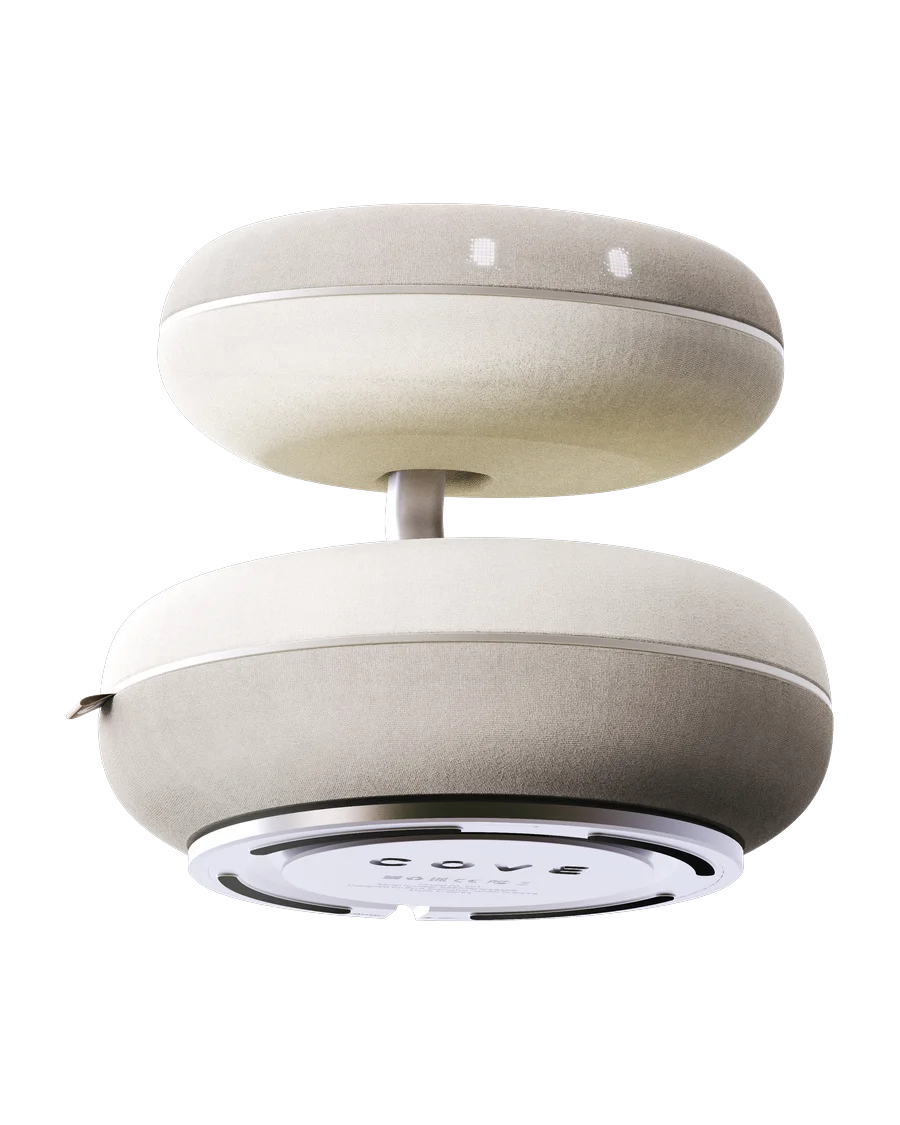
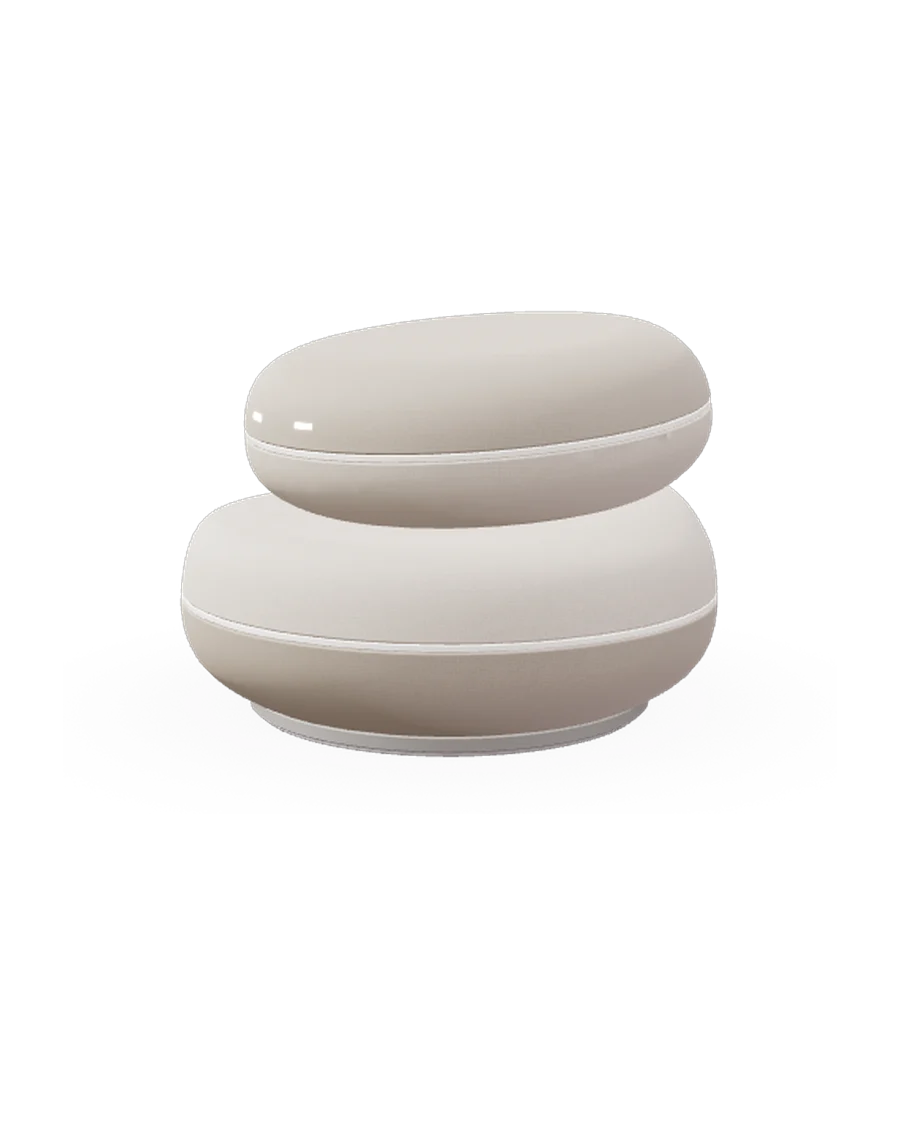
움직임 줄이기 설정과 무관하게 효과 적용, 패브릭 직조 촘촘하게, About 하단 3D 자세 이미지, 모바일 책상 숨김
Claude-Session: https://claude.ai/code/session_01B5YuiHJt2asrBi5ncFQC1Q

diff --git a/js/intro.js b/js/intro.js
@@ -12,7 +12,7 @@
   const peach = $('.intro__peach'), blobA = $('.intro__blob--a'), blobB = $('.intro__blob--b');
   const dots = $('.intro__dots');
   const word = $('.intro__bigword'), render = $('.intro__render');
-  const reduced = window.matchMedia('(prefers-reduced-motion: reduce)').matches;
+  const reduced = false;   // 사용자 요청: PC의 '움직임 줄이기' 설정과 상관없이 모든 효과를 보여준다
   // 큰 COVE 글자는 한 글자씩 따로 움직이고, 도착하는 순간 퍼지는 빛을 둔다
   // Cove.ai 로고의 COVE 글자 모양(assets/cove-logo.svg)을 글자마다 따로 그려 움직임
   const GLYPHS = [{"vb": "215.5 98.3 112.0 100.4", "d": "M 269.85 102.81 C 282.44 101.30 300.40 105.25 310.00 113.82 C 321.82 124.37 310.16 139.64 298.66 134.08 C 293.47 131.57 291.30 128.24 284.39 126.68 C 245.03 117.79 246.80 178.67 287.98 167.90 C 294.46 166.21 295.74 162.93 300.15 160.65 C 313.13 153.92 324.47 170.67 311.50 181.67 C 296.22 194.63 268.34 195.67 251.83 184.53 C 218.48 162.03 230.45 107.53 269.85 102.81 "}, {"vb": "332.3 98.5 97.2 97.0", "d": "M 402.76 147.18 C 402.76 135.14 392.98 125.38 380.91 125.38 C 368.84 125.38 359.06 135.14 359.06 147.18 C 359.06 159.23 368.84 168.99 380.91 168.99 C 392.98 168.99 402.76 159.23 402.76 147.18 M 426.5 147 C 426.5 172.11 406.09 192.47 380.91 192.47 C 355.74 192.47 335.33 172.11 335.33 147 C 335.33 121.88 355.74 101.52 380.91 101.52 C 406.09 101.52 426.5 121.88 426.5 147 "}, {"vb": "438.8 102.2 88.9 93.5", "d": "M 469.84 182.76 C 471.66 186.77 474.92 189.95 478.98 191.65 C 478.98 191.65 477.97 191.23 478.98 191.65 C 481.59 192.75 484.53 192.75 487.13 191.65 L 487.13 191.65 C 491.19 189.95 493.71 187.75 496.28 182.76 C 500.86 173.96 510.45 152.66 510.45 152.66 C 510.45 152.66 517.91 135.36 523.53 122.58 C 523.54 122.56 523.55 122.54 523.56 122.51 C 523.57 122.49 523.58 122.46 523.59 122.44 L 523.60 122.41 L 523.60 122.41 C 524.41 120.48 524.72 118.29 524.37 116.00 C 523.60 110.95 519.55 106.87 514.50 106.09 C 509.01 105.25 504.10 108.17 501.92 112.66 L 501.91 112.65 L 501.78 112.95 C 501.71 113.11 501.64 113.27 501.57 113.43 L 484.49 153.17 C 483.95 154.42 482.17 154.42 481.62 153.17 L 464.75 113.92 C 464.69 113.75 464.62 113.59 464.55 113.43 L 464.42 113.14 L 464.41 113.14 C 462.48 109.17 458.42 106.43 453.71 106.43 C 447.14 106.43 441.81 111.76 441.81 118.33 C 441.81 119.95 442.14 121.49 442.72 122.89 L 442.73 122.92 C 442.75 122.98 442.78 123.02 442.80 123.07 C 447.50 133.45 456.91 154.22 456.91 154.22 C 456.91 154.22 465.53 173.25 469.84 182.76 "}, {"vb": "533.4 99.3 88.3 95.4", "d": "M 612.25 170.75 C 618.32 177.13 615.11 188.77 606.73 190.47 C 600.67 191.70 573.40 191.35 566.60 190.56 C 550.21 188.65 539.59 172.14 544.23 156.46 C 545.25 152.99 547.69 150.32 548.92 146.99 C 536.43 130.69 545.84 105.84 566.60 103.42 C 574.89 102.46 597.21 102.34 605.42 103.33 C 618.55 104.91 618.72 124.90 605.42 126.49 C 594.62 127.78 581.37 125.48 570.28 126.49 C 566.19 127.25 565.31 133.87 569.53 134.66 C 580.16 136.41 607.54 129.09 610.08 144.18 C 613.79 166.15 582.41 156.32 570.28 158.58 C 565.73 159.42 565.19 166.51 571.05 167.47 C 581.03 169.09 594.94 166.38 605.41 167.51 C 607.83 167.77 610.58 169.00 612.25 170.75 "}];

diff --git a/js/sim.js b/js/sim.js
@@ -218,7 +218,9 @@ float vn(vec3 x){ vec3 i = floor(x), f = fract(x); f = f * f * (3.0 - 2.0 * f);
     sh.lineTo(-hw + r, hd); sh.quadraticCurveTo(-hw, hd, -hw, hd - r); sh.lineTo(-hw, -hd + r); sh.quadraticCurveTo(-hw, -hd, -hw + r, -hd);
     const g = new THREE.ExtrudeGeometry(sh, { depth: T, bevelEnabled: true, bevelSize: T * 0.25, bevelThickness: T * 0.25, bevelSegments: 3 });
     const desk = new THREE.Mesh(g, new THREE.MeshStandardMaterial({ color: '#e6d8c4', roughness: 0.78, metalness: 0, envMapIntensity: 0.5 }));
-    desk.rotation.x = -Math.PI / 2; desk.position.set(center.x, box.min.y - T - 0.0004, center.z); scene.add(desk); }
+    desk.rotation.x = -Math.PI / 2; desk.position.set(center.x, box.min.y - T - 0.0004, center.z); scene.add(desk);
+    const syncDesk = () => { desk.visible = !window.matchMedia('(max-width: 760px)').matches; dirty = true; };   // 모바일(반응형)에서는 책상을 숨긴다
+    syncDesk(); window.matchMedia('(max-width: 760px)').addEventListener('change', syncDesk); }
 
   /* ───────── 끌기 / 누르기 ───────── */
   const el = renderer.domElement, ray = new THREE.Raycaster(), ndc = new THREE.Vector2();
@@ -273,6 +275,8 @@ float vn(vec3 x){ vec3 i = floor(x), f = fract(x); f = f * f * (3.0 - 2.0 * f);
   el.addEventListener('pointerup', end); el.addEventListener('pointercancel', () => { drag = null; });
 
   viewBtns.forEach(b => b.addEventListener('click', () => setView(b.dataset.view)));
+  let eyeForce = null;                                                       // (작업용) 눈 표정 고정
+  window.__coveSim = { goal, camGoal, setView, limit, setEye: (n) => { eyeForce = n; }, hideDesk: () => { scene.traverse(o => { if (o.geometry && o.geometry.type === 'ExtrudeGeometry') o.visible = false; }); }, still: () => { lastActive = 1e9; gest = null; } };
   const EXPERIENCE = ['pet', 'tickle', 'snack'];
   function setMode(m) {
     mode = m; if (m) stopClip(); else setStatus(HINT);
@@ -384,7 +388,7 @@ float vn(vec3 x){ vec3 i = floor(x), f = fract(x); f = f * f * (3.0 - 2.0 * f);
     const sway = { neck: a * (0.45 * Math.sin(2 * Math.PI * tNow / 3.7) + 0.25 * Math.sin(2 * Math.PI * tNow / 5.9 + 1.3)), head: a * (0.7 * Math.sin(2 * Math.PI * tNow / 4.3 + 0.6) + 0.3 * Math.sin(2 * Math.PI * tNow / 2.9 + 2.1)) };
     const shown = { ...pose }; shown.neck += sway.neck; shown.head += sway.head;
     const saved = { ...pose }; Object.assign(pose, shown); writePose(); Object.assign(pose, saved);
-    if (!clip) eyeName = gest ? gest.eye : pose.neck < 4 ? '감은 눈' : '뜬 눈';
+    if (!clip) eyeName = eyeForce || (gest ? gest.eye : pose.neck < 4 ? '감은 눈' : '뜬 눈');
     eyes.show(eyeName, gx, 0, tNow);
     // 카메라
     cam.az = smoothDamp(cam.az, camGoal.az, cv.az, 0.28, dt); cam.el = smoothDamp(cam.el, camGoal.el, cv.el, 0.28, dt); cam.zoom = smoothDamp(cam.zoom, camGoal.zoom, cv.zoom, 0.22, dt);

diff --git a/js/fabric-material.js b/js/fabric-material.js
@@ -11,7 +11,7 @@ const cache = {};
 export function fabricFor(THREE, name) {
   const hex = COLORS[name] || '#ddd5c9';
   if (cache[hex]) return cache[hex];
-  const m = new THREE.MeshPhysicalMaterial({ color: hex, roughness: 0.96, metalness: 0, sheen: 0.7, sheenRoughness: 0.7, sheenColor: new THREE.Color('#fff8ee'), envMapIntensity: 0.45 });
+  const m = new THREE.MeshPhysicalMaterial({ color: hex, roughness: 0.96, metalness: 0, sheen: 1.0, sheenRoughness: 0.55, sheenColor: new THREE.Color('#fff8ee'), envMapIntensity: 0.45 });
   m.onBeforeCompile = (sh) => {
     sh.vertexShader = sh.vertexShader
       .replace('#include <common>', '#include <common>\nvarying vec3 vObjPos; varying vec3 vObjN;')
@@ -34,12 +34,12 @@ float weave(vec2 p, float fade){
 }
 float tri(vec3 p, vec3 n, float fr, out float fade){
   vec3 w = pow(abs(n), vec3(4.0)); w /= (w.x + w.y + w.z);
-  float px = max(length(fwidth(p * fr)), 1e-5); fade = 1.0 - smoothstep(0.5, 1.0, px);
+  float px = max(length(fwidth(p * fr)), 1e-5); fade = 1.0 - smoothstep(0.75, 1.6, px);
   return w.x * weave(p.yz * fr, fade) + w.y * weave(p.xz * fr, fade) + w.z * weave(p.xy * fr, fade);
 }`)
       .replace('#include <map_fragment>', `#include <map_fragment>
-float fdA; float hgt = tri(vObjPos, normalize(vObjN), 50.0, fdA);
-diffuseColor.rgb *= 0.72 + 0.42 * hgt;`);
+float fdA; float hgt = tri(vObjPos, normalize(vObjN), 105.0, fdA);
+diffuseColor.rgb *= 0.84 + 0.22 * hgt;`);
   };
   return cache[hex] = m;
 }

diff --git a/js/engineering.js b/js/engineering.js
@@ -11,7 +11,7 @@ const LAYERS = ['head_top', 'head_inner', 'head_low', 'body_top', 'board', 'ring
 const SHELL = new Set(['head_top', 'head_low', 'body_top']);                                              // 겉 껍데기 층: 은은한 라벤더 빛을 입힘
 if (root) {
   const cv = root.querySelector('canvas'), hint = root.querySelector('.eng__hint');
-  const reduced = window.matchMedia('(prefers-reduced-motion: reduce)').matches, touch = window.matchMedia('(hover: none)').matches;
+  const reduced = false, touch = window.matchMedia('(hover: none)').matches;
   if (hint) hint.textContent = touch ? '카드를 좌우로 쓸어 보세요 · 왼쪽 분해 → 오른쪽 조립' : '마우스를 좌우로 움직여 보세요 · 왼쪽 분해 → 오른쪽 조립';
   let started = false;
   new IntersectionObserver(([e]) => { if (e.isIntersecting && !started) { started = true; init().catch(err => console.warn('Engineering view unavailable:', err)); } }, { rootMargin: '900px 0px' }).observe(root);

diff --git a/js/cards.js b/js/cards.js
@@ -108,7 +108,7 @@ float vn(vec3 x){ vec3 i = floor(x), f = fract(x); f = f * f * (3.0 - 2.0 * f);
 
   const vis = new IntersectionObserver((es) => es.forEach(e => { const c = cards.find(k => k.slot === e.target); if (c) { c.visible = e.isIntersecting; if (e.isIntersecting && !c.started) { c.started = true; c.t = 0; } } }), { threshold: 0.15 });
   cards.forEach(c => vis.observe(c.slot));
-  const reduced = window.matchMedia('(prefers-reduced-motion: reduce)').matches;
+  const reduced = false;   // 사용자 요청: PC의 '움직임 줄이기' 설정과 상관없이 모든 효과를 보여준다
 
   function say(c, text) { if (c.text === text) return; c.text = text; c.msg.textContent = text; }
   function goal(c) {                                                           // 카드마다 보여줄 카메라·자세·눈

diff --git a/css/style.css b/css/style.css
@@ -340,11 +340,7 @@ body::before {
   .features__grid { grid-template-columns: 1fr; }
 }
 
-@media (prefers-reduced-motion: reduce) {
-  html { scroll-behavior: auto; }
-  *, *::before, *::after { animation: none !important; transition-duration: .01ms !important; }
-  .reveal { opacity: 1; transform: none; }
-}
+/* (사용자 요청) '움직임 줄이기' 설정과 상관없이 효과를 그대로 보여준다 */
 
 /* Korean emphasis: keep upright (no faux italic), accent by color & weight */
 em.ko { font-family: var(--font-ui); font-style: normal; font-weight: 400; font-size: 1em; }

diff --git a/js/features.js b/js/features.js
@@ -88,7 +88,7 @@ function drawPressure(c, w, h, t) {
 }
 
 const ARTS = { eyes: [drawEyes, 4.0, false], body: [drawBody, 6.0, false], attention: [drawAttention, 4.0, false], pressure: [drawPressure, 4.0, false] };
-const reduced = window.matchMedia('(prefers-reduced-motion: reduce)').matches;
+const reduced = false;   // 사용자 요청: PC의 '움직임 줄이기' 설정과 상관없이 모든 효과를 보여준다
 const touchOnly = window.matchMedia('(hover: none)').matches;
 const dpr = () => Math.min(window.devicePixelRatio || 1, 2);
 

diff --git a/css/intro.css b/css/intro.css
@@ -75,9 +75,7 @@
 }
 
 /* ---------- Reduced motion: 타이핑·움직임 없이 장면만 전환 ---------- */
-@media (prefers-reduced-motion: reduce) {
-  .intro__caret { display: none; }
-}
+/* (사용자 요청) 움직임 줄이기 설정과 상관없이 타이핑·움직임을 그대로 보여준다 */
 
 /* 화면에는 보이지 않지만 검색·스크린리더용 제목 */
 .sr-only { position: absolute; width: 1px; height: 1px; margin: -1px; padding: 0; overflow: hidden; clip: rect(0 0 0 0); white-space: nowrap; border: 0; }

diff --git a/js/main.js b/js/main.js
@@ -152,7 +152,7 @@ updateNavSpy();
 (() => {
   const fig = document.querySelector('.gallery__film'), v = fig && fig.querySelector('video');
   if (!v) return;
-  const reduce = window.matchMedia('(prefers-reduced-motion: reduce)').matches;
+  const reduce = false;
   const isFull = () => document.fullscreenElement === fig || document.webkitFullscreenElement === fig || v.webkitDisplayingFullscreen;
   new IntersectionObserver(([en]) => {
     if (reduce || isFull()) return;

diff --git a/CLAUDE.md b/CLAUDE.md
@@ -42,7 +42,7 @@
 - **Hero 섹션은 삭제됨**: 인트로의 큰 COVE 글자 + Cove 렌더 장면이 그 자리를 대신함(사용자 요청).
 - **반응형 기준**: 1024px 이하 기능 카드 2열, 760px 이하 1열 구성과 메뉴 숨김, 520px 이하 기능 카드 1열.
 - **섹션 순서**: 인트로(HI → I'm cove → 큰 COVE 글자 + Cove 렌더, 스크롤로 이어짐) → About → Key Features → Design & Detail → Gallery → Footer(크레딧 포함).
-- **스크롤·움직임**: 부드러운 스크롤, 스크롤 시 서서히 나타나는 효과, 로봇이 떠 있는 움직임과 눈 깜빡임, 인트로 I'm cove 장면의 그라디언트가 마우스를 따라감, 스크롤 위치에 맞는 상단 메뉴 항목이 보라색(#5b43a6)+굵은 밑줄로 강조됨, 좌측 하단 페이지 표시는 메뉴가 숨겨지는 모바일(760px 이하)에서만 보임, Design 대표 이미지 화면 고정(sticky), 스크롤하면 메뉴 배경이 반투명해짐, 움직임 줄이기 설정 존중.
+- **스크롤·움직임**: 부드러운 스크롤, 스크롤 시 서서히 나타나는 효과, 로봇이 떠 있는 움직임과 눈 깜빡임, 인트로 I'm cove 장면의 그라디언트가 마우스를 따라감, 스크롤 위치에 맞는 상단 메뉴 항목이 보라색(#5b43a6)+굵은 밑줄로 강조됨, 좌측 하단 페이지 표시는 메뉴가 숨겨지는 모바일(760px 이하)에서만 보임, Design 대표 이미지 화면 고정(sticky), 스크롤하면 메뉴 배경이 반투명해짐, 움직임 줄이기 설정은 사용자 요청으로 무시하고 항상 모든 효과를 보여준다(PC에서 효과가 꺼져 보이던 문제).
 
 ## 문구 원칙 (사용자 지시)
 - **장점만 부드럽게** 쓴다. "~이 아니라", "~없이", "~못한다", "방해하지 않는" 같은 부정·한계 표현은 쓰지 않고 긍정형으로 바꾼다. 말투는 "~해요".
@@ -83,4 +83,6 @@
 
 - **시뮬레이터 체험 방식(사용자 요청으로 변경)**: 왼쪽 01~05 단계 목록은 없앴다(안내 문구 한 줄만 표시). Cove는 책상(연한 나무 상판) 위에 놓여 있다. 버튼은 행동 중심: 인사하기·쉬기·잠들기는 누르면 바로 해당 동작만 재생(시나리오에서 그 부분만 잘라 사용, 도입 단계 없음), 쓰다듬기(마우스로 머리 문지르기)·간지럽히기(마우스로 몸통 문지르기)·간식 주기(간식을 끌어다 Cove에게 놓기)는 선택하면 직접 체험, 초기화는 처음 상태로. 선택한 버튼은 어둡게 표시.
 - **패브릭 외피**: 면(코튼·린넨) 평직 무늬 셰이더(js/fabric-material.js). 색은 두 가지 — 머리 윗면·몸통 아래는 그레이지, 머리 아래(턱)·몸통 위는 크림.
-- **About 하단 Close·Calm·Kind**: 각 열 아래에 사용자 렌더(FORM·DETAIL)에서 잘라 만든 이미지(assets/about-*.webp) 배치.
+- **About 하단 Close·Calm·Kind**: 각 열 아래에 시뮬레이터 3D 모델로 만든 자세 이미지(assets/about-*.webp, 투명 배경, 책상 없음) — Close: 일어나 정면을 바라보는 자세, Calm: 낮게 앉아 편안한 눈, Kind: 갸웃·몸통 돌림·신난 눈.
+- **책상은 PC에서만**: 모바일(760px 이하)에서는 시뮬레이터의 책상을 숨긴다(사용자 요청).
+- **패브릭 직조감**: 부드러운 면 원단처럼 아주 촘촘하고 작은 평직(fr 170)에 은은한 시인 광택.
